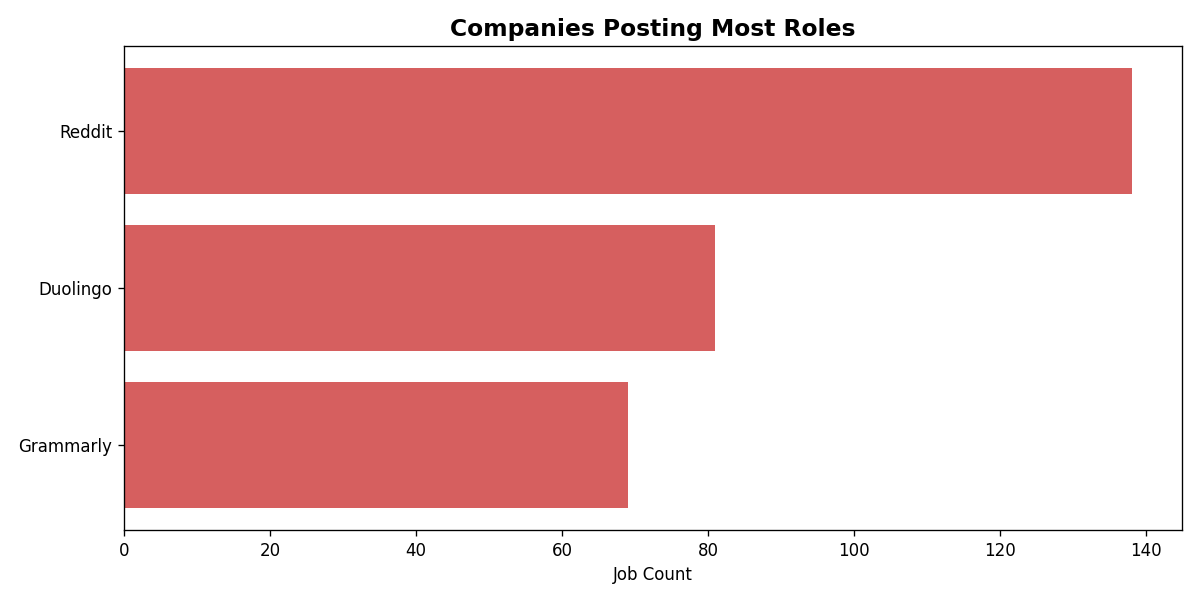
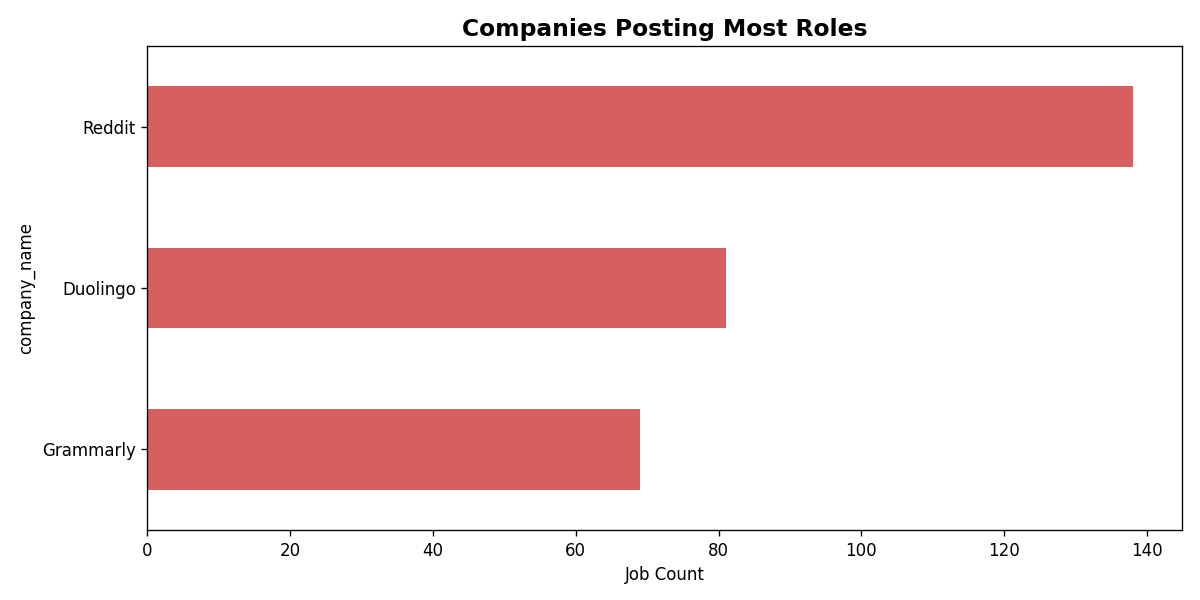
Update analysis script to use Pandas with 7 insights sections

diff --git a/analysis/analyze_jobs.py b/analysis/analyze_jobs.py
@@ -1,154 +1,162 @@
 import os
-import re
 import json
-import csv
-from collections import Counter
-
-try:
-    import matplotlib
-    matplotlib.use("Agg")
-    import matplotlib.pyplot as plt
-    PLOTS = True
-except ImportError:
-    PLOTS = False
+import pandas as pd
+import matplotlib
+matplotlib.use("Agg")
+import matplotlib.pyplot as plt
 
 DATA_PATH  = os.path.join("data", "final", "jobs.csv")
 OUTPUT_DIR = "analysis"
 
 
-def load_jobs(path):
-    if not os.path.exists(path):
-        print(f"File not found: {path}")
-        return []
-    with open(path, newline="", encoding="utf-8") as f:
-        return list(csv.DictReader(f))
+def load_data():
+    if not os.path.exists(DATA_PATH):
+        print(f"File not found: {DATA_PATH}")
+        return None
+    df = pd.read_csv(DATA_PATH)
+    print(f"Loaded {len(df)} job records")
+    return df
 
 
-def top_skills(jobs, n=15):
-    skill_counter = Counter()
-    for job in jobs:
-        raw = job.get("required_skills", "")
-        for skill in re.split(r"[,;]+", raw):
-            s = skill.strip().lower()
-            if s and s != "not specified":
-                skill_counter[s] += 1
-    return skill_counter.most_common(n)
+def top_skills(df, n=15):
+    skills = (
+        df["required_skills"]
+        .dropna()
+        .str.split(",")
+        .explode()
+        .str.strip()
+        .str.lower()
+        .replace("not specified", pd.NA)
+        .dropna()
+    )
+    return skills.value_counts().head(n)
 
 
-def top_locations(jobs, n=10):
-    loc_counter = Counter()
-    for job in jobs:
-        loc = (job.get("location") or "Not specified").strip()
-        if loc and loc.lower() not in ("", "not specified"):
-            loc_counter[loc] += 1
-    return loc_counter.most_common(n)
+def top_locations(df, n=10):
+    locs = (
+        df["location"]
+        .dropna()
+        .str.strip()
+        .replace("Not specified", pd.NA)
+        .dropna()
+    )
+    return locs.value_counts().head(n)
 
 
-def top_companies(jobs, n=10):
-    ctr = Counter(job.get("company_name", "Unknown") for job in jobs)
-    return ctr.most_common(n)
+def top_companies(df, n=10):
+    return df["company_name"].value_counts().head(n)
 
 
-def entry_level_count(jobs):
-    levels = {"Entry-level": 0, "Internship": 0, "Other": 0}
-    for job in jobs:
-        title  = (job.get("job_title") or "").lower()
-        etype  = (job.get("employment_type") or "").lower()
-        elevel = (job.get("experience_level") or "").lower()
-        if "intern" in etype or "intern" in title or "intern" in elevel:
-            levels["Internship"] += 1
-        elif "entry" in elevel or "junior" in title or "jr" in title:
-            levels["Entry-level"] += 1
-        else:
-            levels["Other"] += 1
-    return levels
+def entry_level_count(df):
+    total = len(df)
+    internship = df[
+        df["employment_type"].str.lower().str.contains("intern", na=False) |
+        df["job_title"].str.lower().str.contains("intern", na=False)
+    ].shape[0]
+    entry = df[
+        df["experience_level"].str.lower().str.contains("entry", na=False) |
+        df["job_title"].str.lower().str.contains("junior|jr\\.|new grad", na=False, regex=True)
+    ].shape[0]
+    other = total - internship - entry
+    return pd.Series({
+        "Internship":  internship,
+        "Entry-level": entry,
+        "Other":       other,
+    })
 
 
-def top_titles(jobs, n=10):
+def top_titles(df, n=10):
     def normalise(t):
-        t = t.lower()
-        if "data engineer"   in t: return "Data Engineer"
-        if "data analyst"    in t: return "Data Analyst"
-        if "data scientist"  in t: return "Data Scientist"
-        if "software eng"    in t: return "Software Engineer"
-        if "backend"         in t: return "Backend Engineer"
-        if "frontend"        in t: return "Frontend Engineer"
-        if "fullstack"       in t: return "Full-Stack Engineer"
-        if "qa"              in t: return "QA / Test Engineer"
-        if "product manag"   in t: return "Product Manager"
-        if "devops"          in t: return "DevOps / Platform"
-        if "ml"              in t: return "ML Engineer"
-        if "intern"          in t: return "Intern"
+        t = str(t).lower()
+        if "data engineer"  in t: return "Data Engineer"
+        if "data analyst"   in t: return "Data Analyst"
+        if "data scientist" in t: return "Data Scientist"
+        if "software eng"   in t: return "Software Engineer"
+        if "backend"        in t: return "Backend Engineer"
+        if "frontend"       in t: return "Frontend Engineer"
+        if "fullstack"      in t or "full stack" in t: return "Full-Stack Engineer"
+        if "qa"             in t: return "QA / Test Engineer"
+        if "product manag"  in t: return "Product Manager"
+        if "devops"         in t: return "DevOps / Platform"
+        if "ml"             in t or "machine learning" in t: return "ML Engineer"
+        if "intern"         in t: return "Intern"
         return t.title()
-    ctr = Counter(normalise(job.get("job_title", "Unknown")) for job in jobs)
-    return ctr.most_common(n)
+    return df["job_title"].apply(normalise).value_counts().head(n)
 
 
-def bar_chart(data, title, xlabel, filename, color="#4C72B0"):
-    if not PLOTS or not data:
+def bar_chart(series, title, xlabel, filename, color="#4C72B0"):
+    if series.empty:
         return
-    labels = [d[0] for d in data]
-    values = [d[1] for d in data]
     fig, ax = plt.subplots(figsize=(10, 5))
-    ax.barh(labels[::-1], values[::-1], color=color)
+    series[::-1].plot(kind="barh", ax=ax, color=color)
     ax.set_title(title, fontsize=14, fontweight="bold")
     ax.set_xlabel(xlabel)
     plt.tight_layout()
     path = os.path.join(OUTPUT_DIR, filename)
     plt.savefig(path, dpi=120)
     plt.close()
-    print(f"Chart saved: {path}")
+    print(f"  Chart saved: {path}")
 
 
 def run_analysis():
     os.makedirs(OUTPUT_DIR, exist_ok=True)
-    jobs = load_jobs(DATA_PATH)
-    if not jobs:
+    df = load_data()
+    if df is None:
         return
 
-    total = len(jobs)
+    total = len(df)
     print("\n" + "=" * 60)
     print("        JOB MARKET ANALYSIS REPORT")
     print("=" * 60)
     print(f"Total job records: {total}\n")
 
     print("── 1. TOP SKILLS ────────────────────────────────────────────")
-    skills = top_skills(jobs)
-    for rank, (skill, count) in enumerate(skills, 1):
-        print(f"  {rank:>2}. {skill:<25} {count} postings")
+    skills = top_skills(df)
+    print(skills.to_string())
     bar_chart(skills, "Top Skills in Demand", "Job Postings", "top_skills.png", "#4878CF")
 
     print("\n── 2. TOP LOCATIONS ─────────────────────────────────────────")
-    locs = top_locations(jobs)
-    for rank, (loc, count) in enumerate(locs, 1):
-        print(f"  {rank:>2}. {loc:<30} {count} openings")
+    locs = top_locations(df)
+    if locs.empty:
+        print("  No location data available")
+    else:
+        print(locs.to_string())
     bar_chart(locs, "Locations with Most Openings", "Job Count", "top_locations.png", "#6ACC65")
 
     print("\n── 3. TOP COMPANIES ─────────────────────────────────────────")
-    companies = top_companies(jobs)
-    for rank, (company, count) in enumerate(companies, 1):
-        print(f"  {rank:>2}. {company:<30} {count} roles")
+    companies = top_companies(df)
+    print(companies.to_string())
     bar_chart(companies, "Companies Posting Most Roles", "Job Count", "top_companies.png", "#D65F5F")
 
     print("\n── 4. ENTRY-LEVEL & INTERNSHIPS ─────────────────────────────")
-    levels = entry_level_count(jobs)
+    levels = entry_level_count(df)
     for level, count in levels.items():
-        pct = (count / total * 100) if total else 0
+        pct = count / total * 100
         print(f"  {level:<20} {count} ({pct:.1f}%)")
 
     print("\n── 5. TOP JOB TITLES ────────────────────────────────────────")
-    titles = top_titles(jobs)
-    for rank, (title, count) in enumerate(titles, 1):
-        print(f"  {rank:>2}. {title:<30} {count}")
+    titles = top_titles(df)
+    print(titles.to_string())
     bar_chart(titles, "Most Common Job Titles", "Count", "top_titles.png", "#956CB4")
 
+    print("\n── 6. EMPLOYMENT TYPE BREAKDOWN ─────────────────────────────")
+    emp = df["employment_type"].value_counts()
+    print(emp.to_string())
+
+    print("\n── 7. EXPERIENCE LEVEL BREAKDOWN ────────────────────────────")
+    exp = df["experience_level"].value_counts()
+    print(exp.to_string())
+    bar_chart(exp, "Experience Level Distribution", "Count", "experience_levels.png", "#56AEC4")
+
     summary = {
-        "total_jobs":      total,
-        "top_skills":      skills,
-        "top_locations":   locs,
-        "top_companies":   companies,
-        "level_breakdown": levels,
-        "top_titles":      titles,
+        "total_jobs":        total,
+        "top_skills":        skills.to_dict(),
+        "top_locations":     locs.to_dict(),
+        "top_companies":     companies.to_dict(),
+        "level_breakdown":   levels.to_dict(),
+        "top_titles":        titles.to_dict(),
+        "employment_types":  emp.to_dict(),
+        "experience_levels": exp.to_dict(),
     }
     with open(os.path.join(OUTPUT_DIR, "summary.json"), "w", encoding="utf-8") as f:
         json.dump(summary, f, indent=2)
